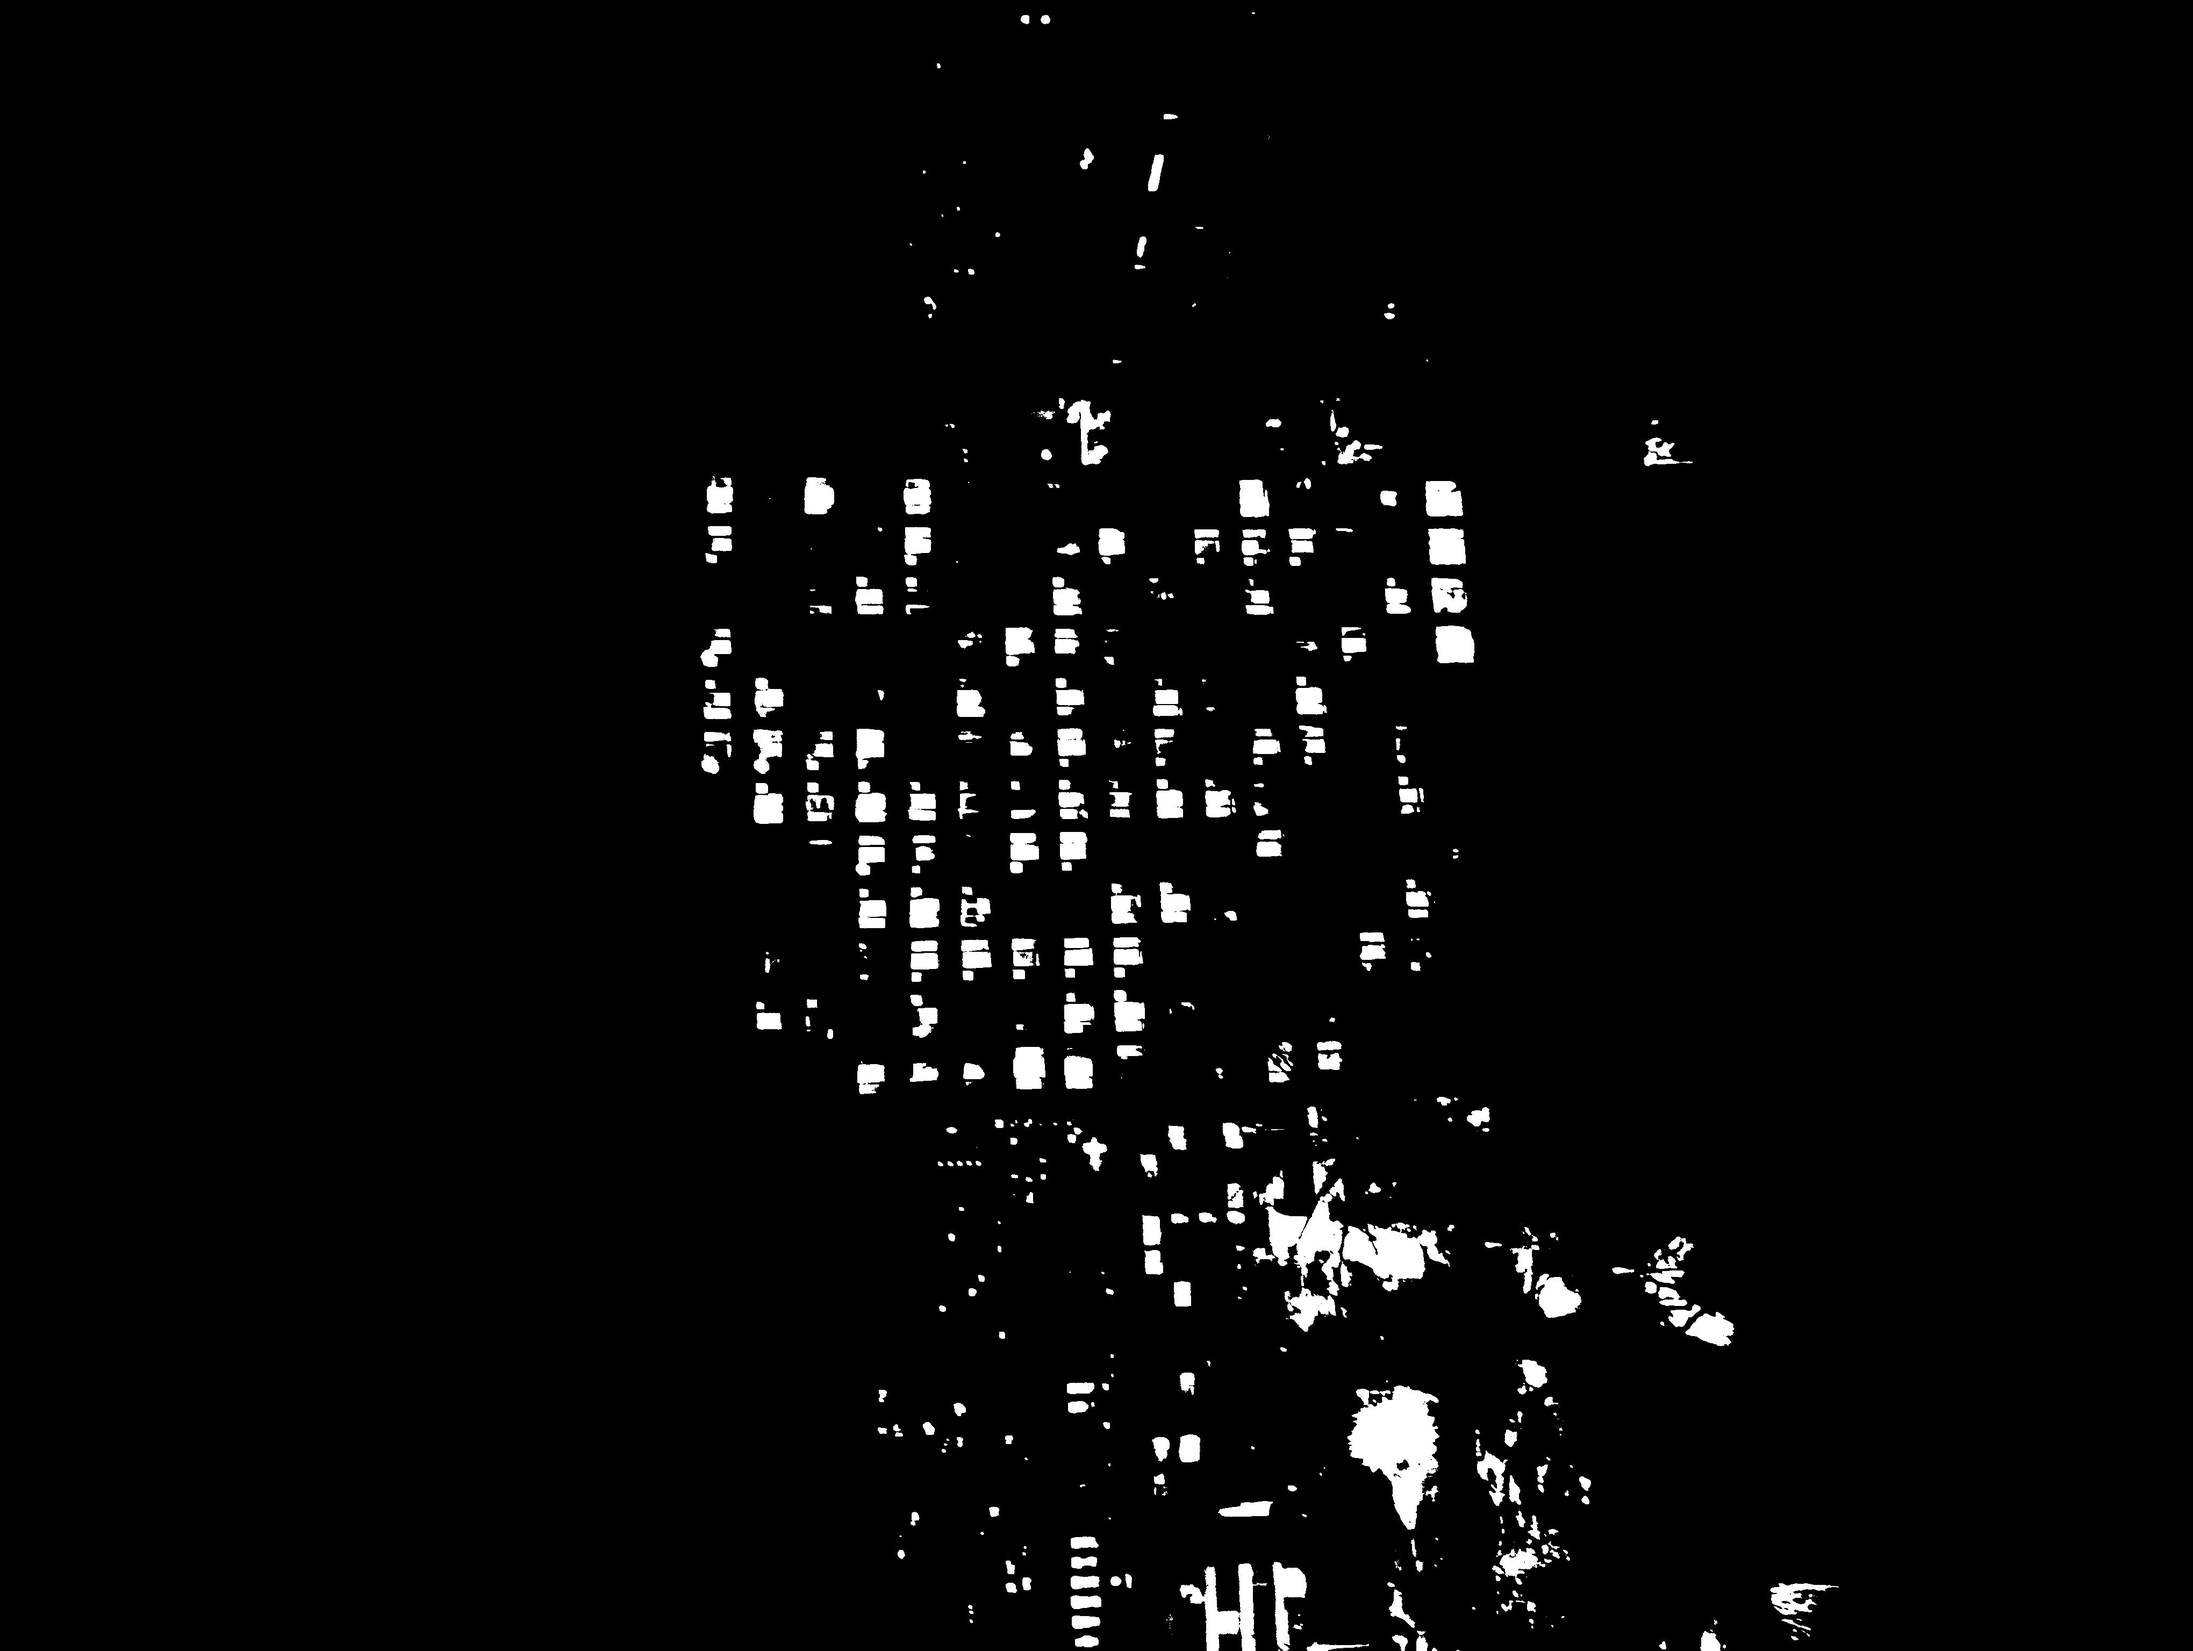
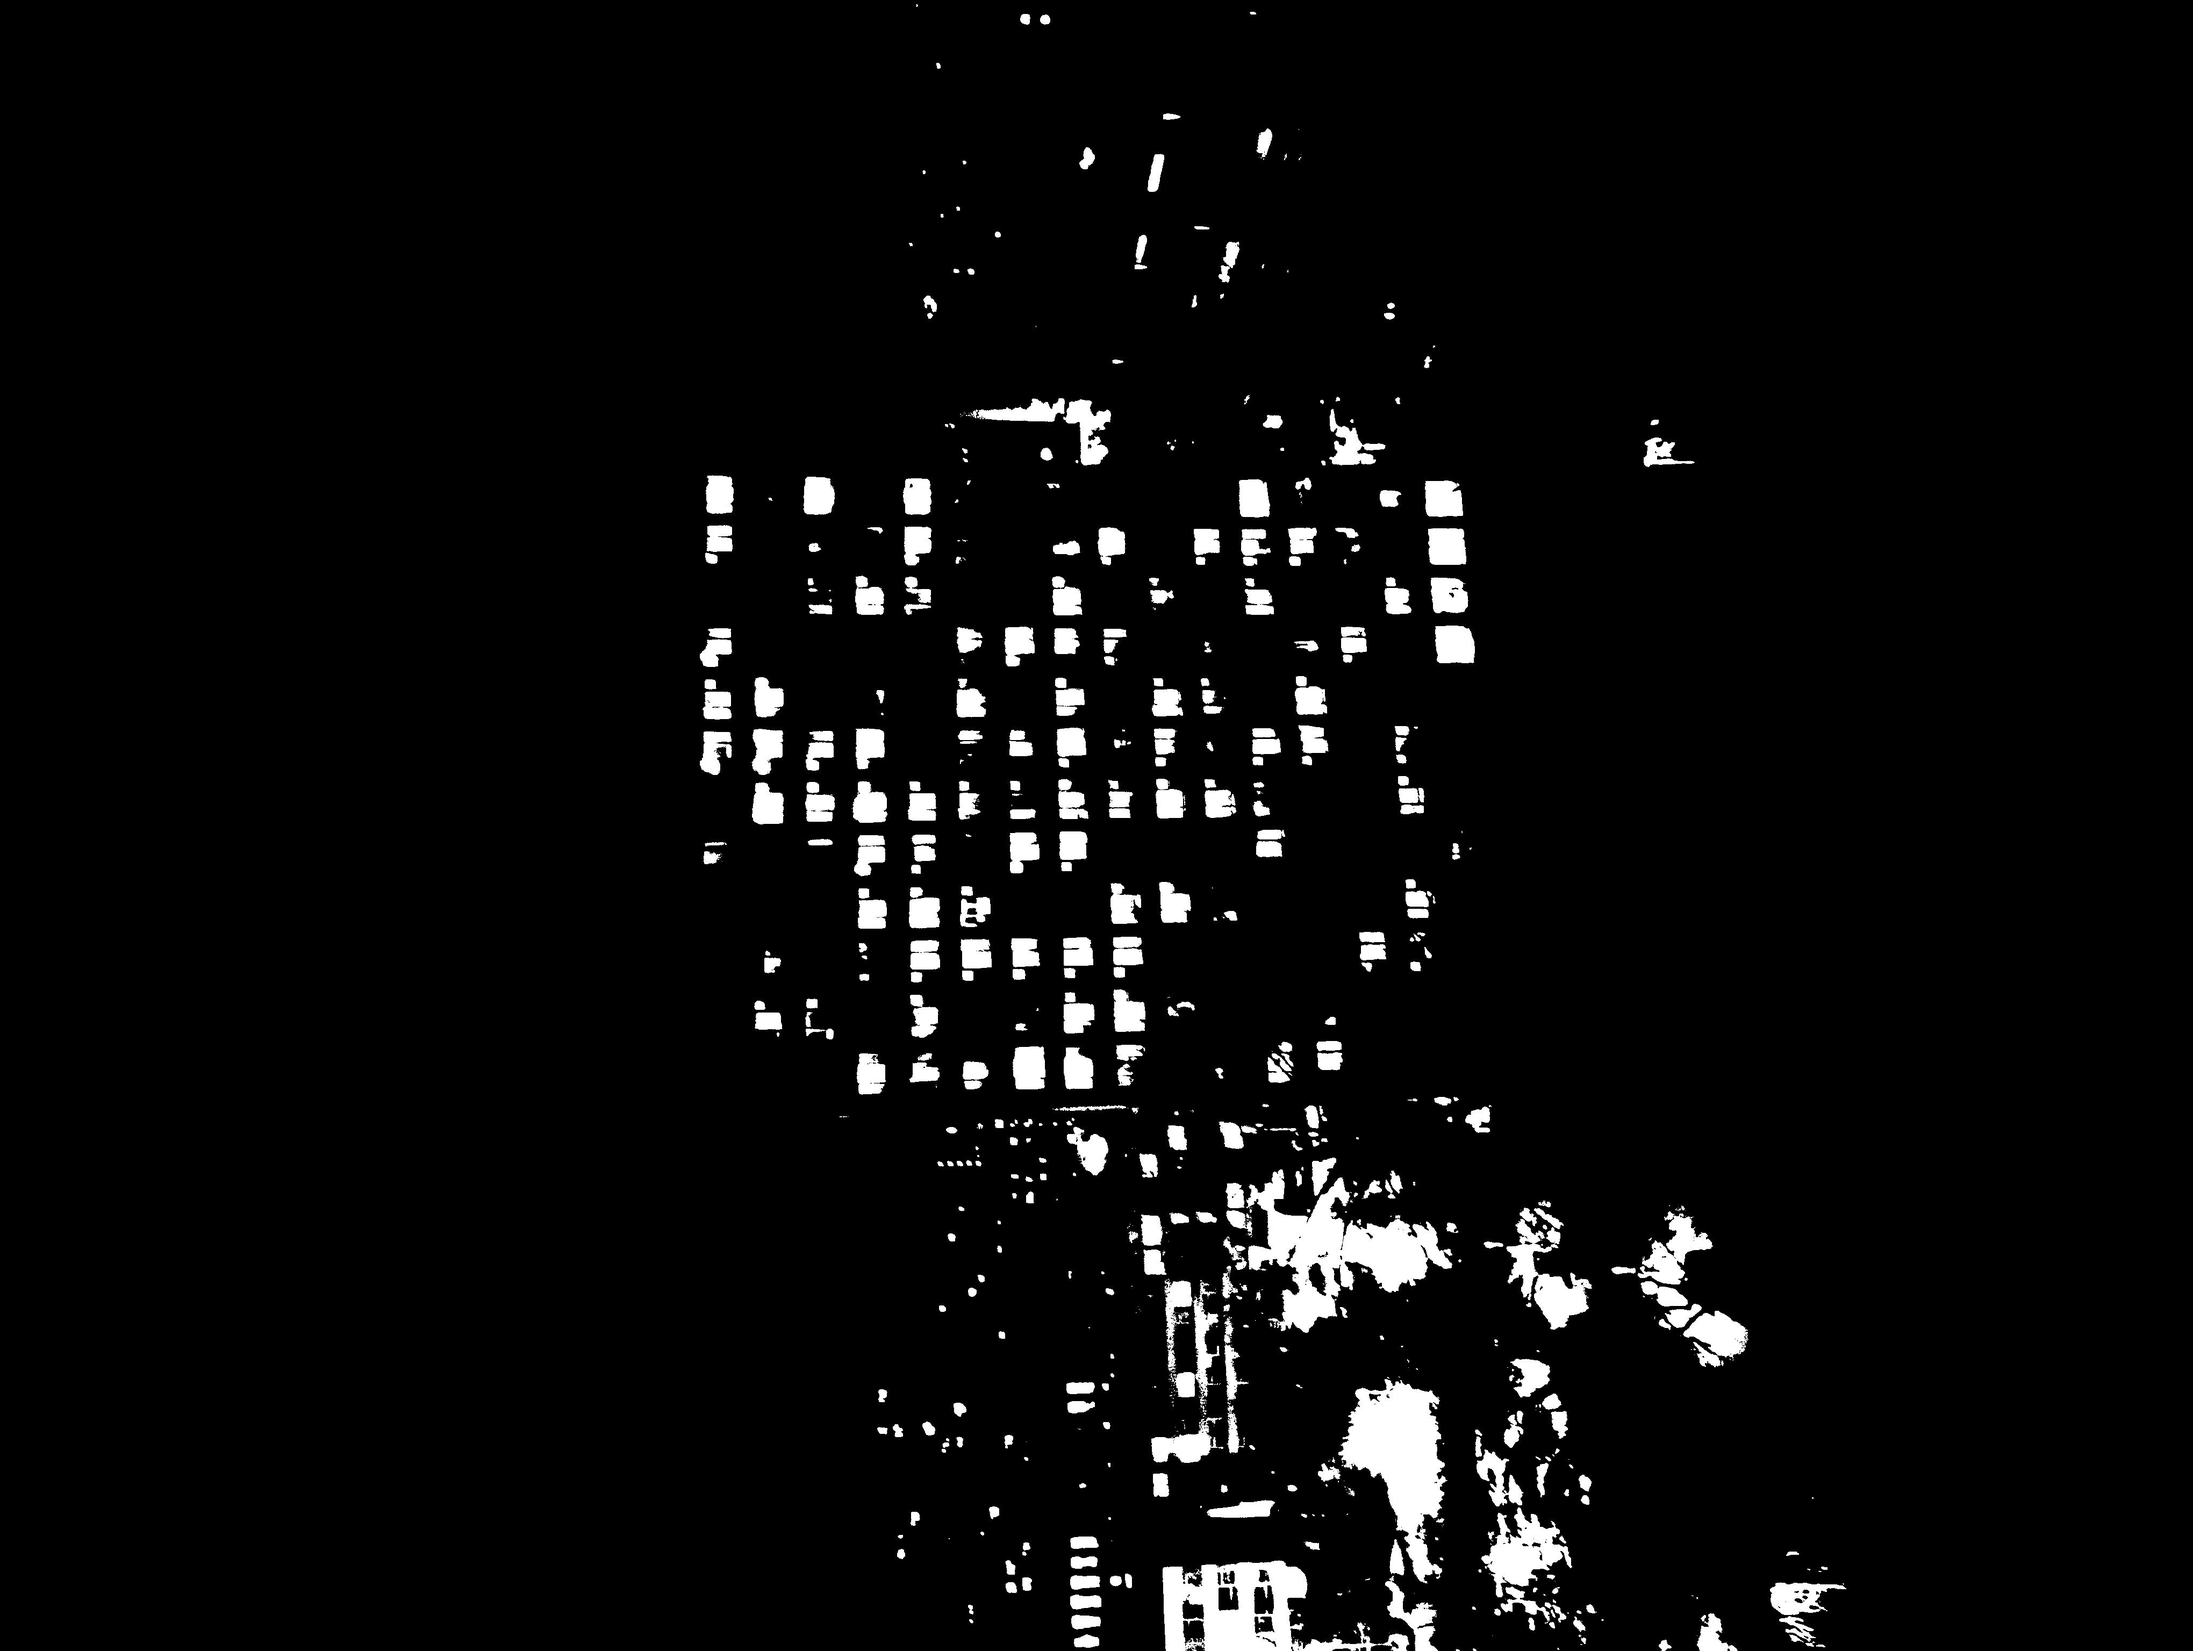
more load

diff --git a/Windows/analyze_picture.py b/Windows/analyze_picture.py
@@ -1,6 +1,12 @@
 from skimage import io, color, filters, transform
 import matplotlib.pyplot as plt
 import numpy as np
+import os
+# from tensorflow import keras
+# from keras.constraints import maxnorm
+# from keras.utils import np_utils
+
+images = [a for a in os.path('images')]
 
 # LOADING A TEST PICTURE
 image = io.imread("IMG_20250129_002603.jpg")
@@ -14,21 +20,21 @@ gray_image = color.rgb2gray(image)
 hsv_image = color.rgb2hsv(image)
 brightness = hsv_image[:, :, 2]
 
-threshold = 0.5
+threshold = 0.4
 binary_mask = np.where(brightness < threshold, 0, 1)
 output_image = (binary_mask * 255).astype(np.uint8)
 io.imsave('proccessed_image.jpg',output_image)
 # modified_image = np.where(gray_image < threshold, 1, gray_image)
 
-fig, ax = plt.subplots(1, 2, figsize=(10, 5))
-
-ax[0].imshow(image)
-ax[0].set_title("Original Image")
-ax[0].axis("off")
-
-ax[1].imshow(output_image, cmap="gray")
-ax[1].set_title("output_image")
-ax[1].axis("off")
+# fig, ax = plt.subplots(1, 2, figsize=(10, 5))
+#
+# ax[0].imshow(image)
+# ax[0].set_title("Original Image")
+# ax[0].axis("off")
+#
+# ax[1].imshow(output_image, cmap="gray")
+# ax[1].set_title("output_image")
+# ax[1].axis("off")
 #
 # ax[2].imshow(modified_image)
 # ax[2].set_title("modified_image")
@@ -37,4 +43,4 @@ ax[1].axis("off")
 # plt.imshow(modified_image, cmap="gray")
 # plt.axis("off")
 # plt.tight_layout()
-plt.show()
+# plt.show()

diff --git a/Windows/load_images.py b/Windows/load_images.py
@@ -1,0 +1,21 @@
+import os
+from skimage import io, color, filters, transform
+from datetime import datetime
+
+folder_path = "\images"
+
+def extract_date_and_time(image_path):
+    filename = os.path.basename(image_path)
+    timestamp_str = filename.split('_')[1]
+    timestamp = datetime.strptime(timestamp_str, '%Y%m%d_%H%M%S')
+    return timestamp.date(), timestamp.time()
+
+
+def load_images():
+    images = []
+
+    for filename in os.listdir(folder_path):
+        if filename.endswith('.jpg') or filename.endswith('.png'):
+            image_path = os.path.join(folder_path, filename)
+            image = io.imread(image_path)
+            images.append(image)
